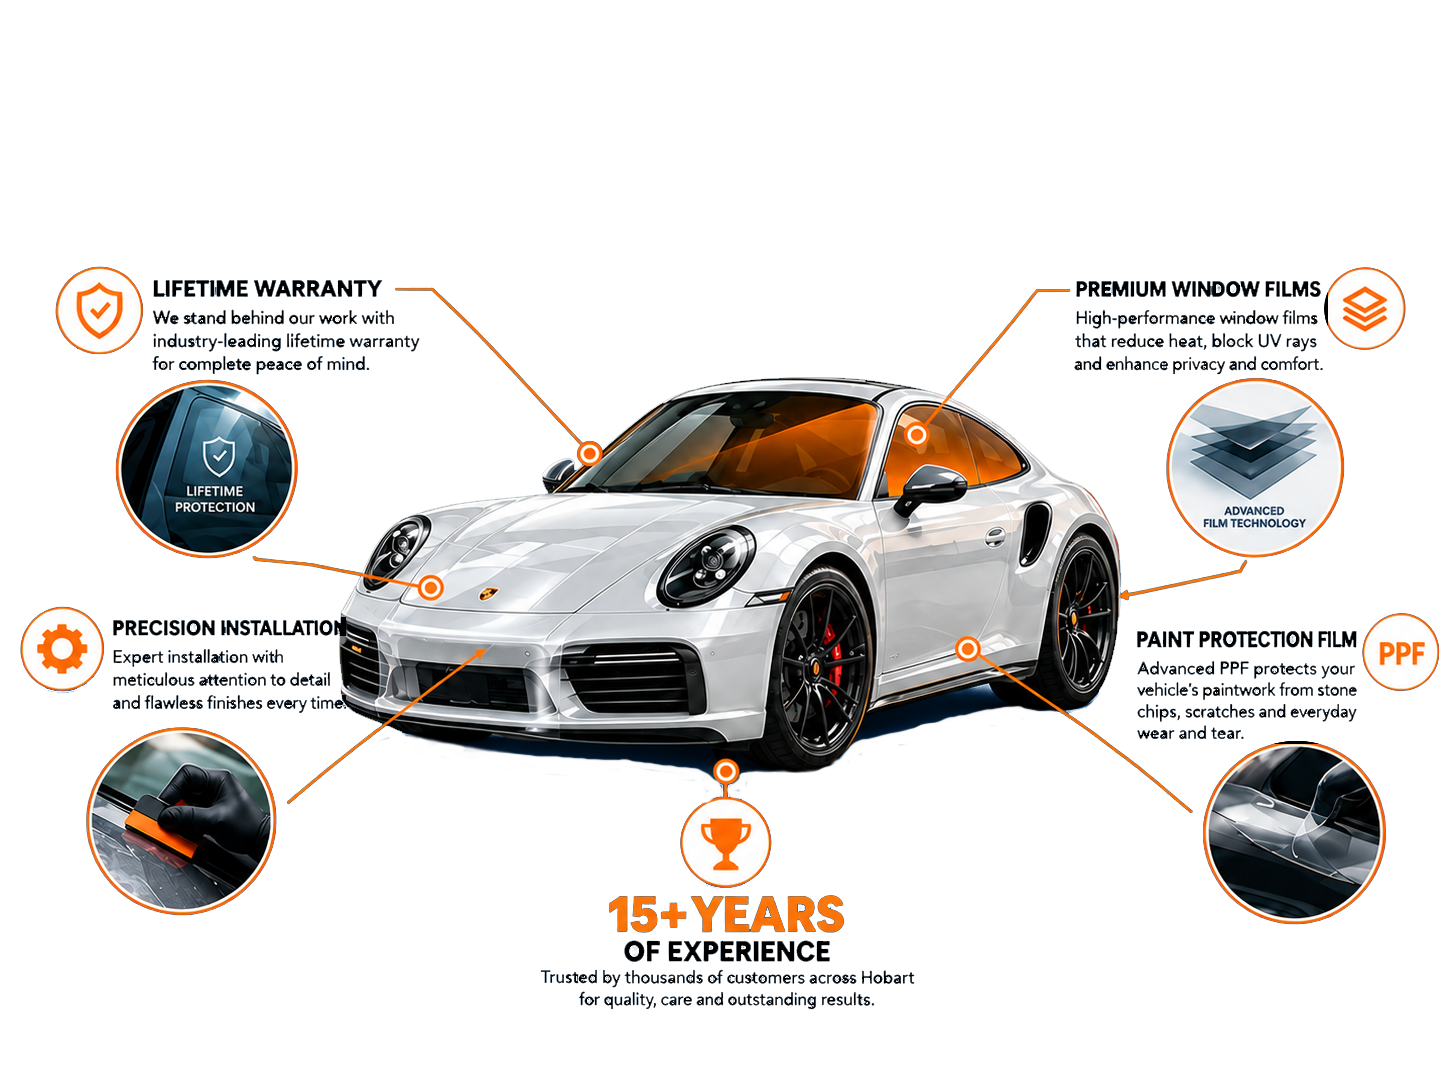
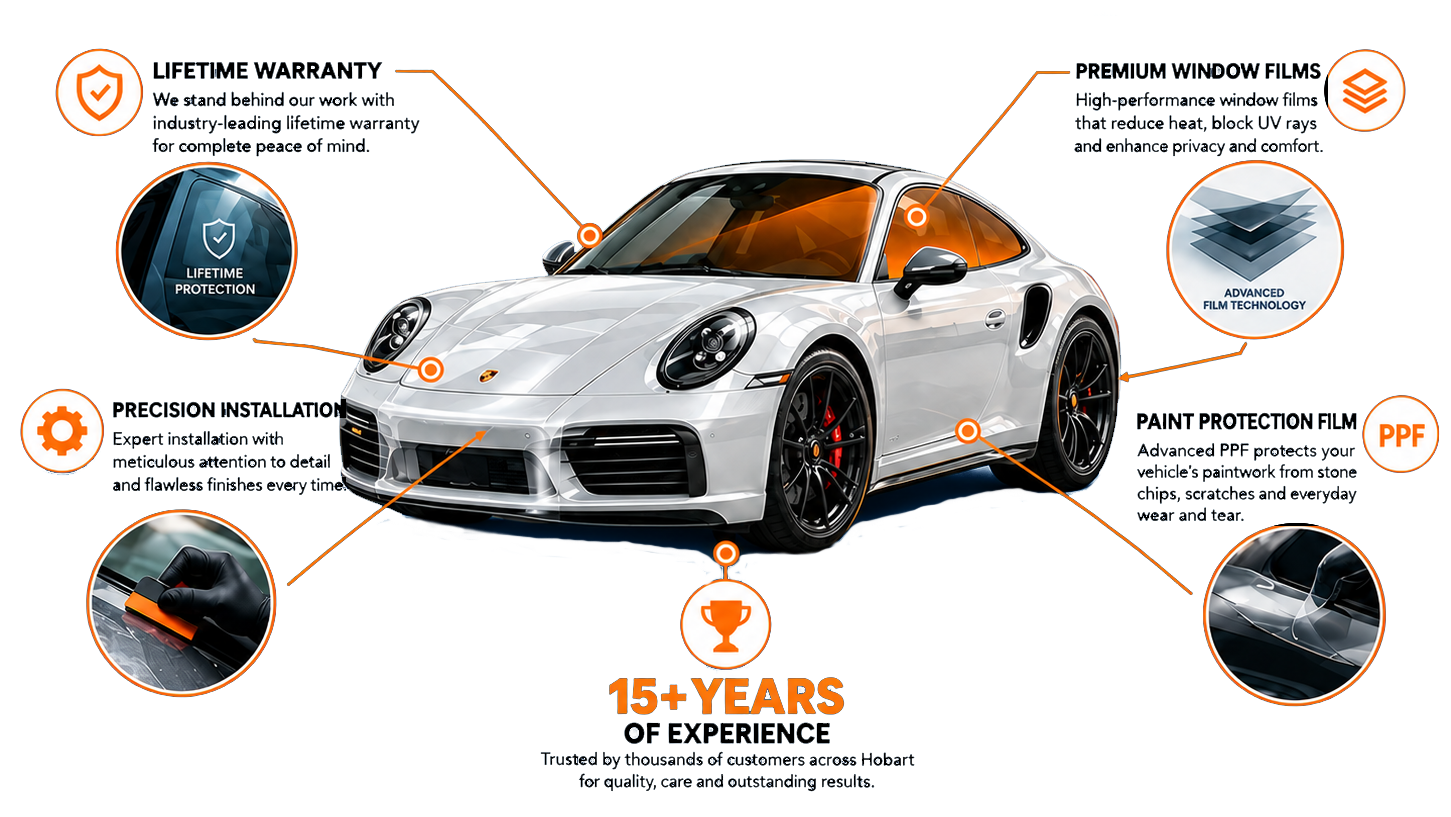
build fix

diff --git a/src/components/WhyChooseFeatures.tsx b/src/components/WhyChooseFeatures.tsx
@@ -112,7 +112,6 @@ export default function WhyChooseFeatures() {
   return (
     <section className="section overflow-hidden bg-white py-14 md:py-16 dark:bg-ink-950">
       <div className="container">
-        {/*
         <Reveal>
           <div className="mx-auto max-w-2xl text-center">
             <p className="flex items-center justify-center gap-3 text-[11px] font-bold uppercase tracking-[0.25em] text-accent-500">
@@ -120,30 +119,29 @@ export default function WhyChooseFeatures() {
               Why Choose Spotless Tinting
               <span className="h-px w-7 bg-accent-500" aria-hidden />
             </p>
-            <h2 className="mt-4 text-3xl font-bold uppercase tracking-tight text-ink-950 md:text-4xl lg:text-[2.75rem]">
+            <h2 className="mt-4 text-3xl font-bold uppercase tracking-tight text-ink-950 dark:text-white md:text-4xl lg:text-[2.75rem]">
               Excellence in <span className="text-accent-500">Every Detail</span>
             </h2>
-            <p className="panel-muted mt-5 text-sm leading-relaxed sm:text-base">
+            <p className="mt-5 text-sm leading-relaxed text-ink-600 dark:text-ink-300 sm:text-base">
               We combine premium products, expert installation and unmatched attention to detail to
               deliver protection, performance and style you can rely on.
             </p>
           </div>
         </Reveal>
-        */}
 
         <Reveal>
           {/* Light mode: dark artwork on white bg */}
           <img
             src={images.homeWhyChoose.car}
             alt="Why choose Spotless Tinting — lifetime warranty, premium films, precision installation, PPF and 15+ years of experience"
-            className="mx-auto w-full max-w-6xl object-contain dark:hidden"
+            className="mx-auto mt-10 w-full max-w-6xl object-contain dark:hidden md:mt-4"
             loading="lazy"
           />
           {/* Dark mode: white artwork on dark bg */}
           <img
             src={images.homeWhyChoose.carDark}
             alt="Why choose Spotless Tinting — lifetime warranty, premium films, precision installation, PPF and 15+ years of experience"
-            className="mx-auto hidden w-full max-w-6xl object-contain dark:block"
+            className="mx-auto mt-10 hidden w-full max-w-6xl object-contain dark:block md:mt-4"
             loading="lazy"
           />
         </Reveal>

diff --git a/src/index.css b/src/index.css
@@ -333,9 +333,6 @@ html.dark main .ceramic-compare-table .text-ink-900,
 html.dark main .ceramic-compare-table .text-ink-700 {
   color: #0d0f11 !important;
 }
-html.dark main .ceramic-compare-table .text-white {
-  color: #fff !important;
-}
 html.dark main .ceramic-compare-table .bg-accent-500 {
   background-color: theme('colors.accent.500') !important;
 }
